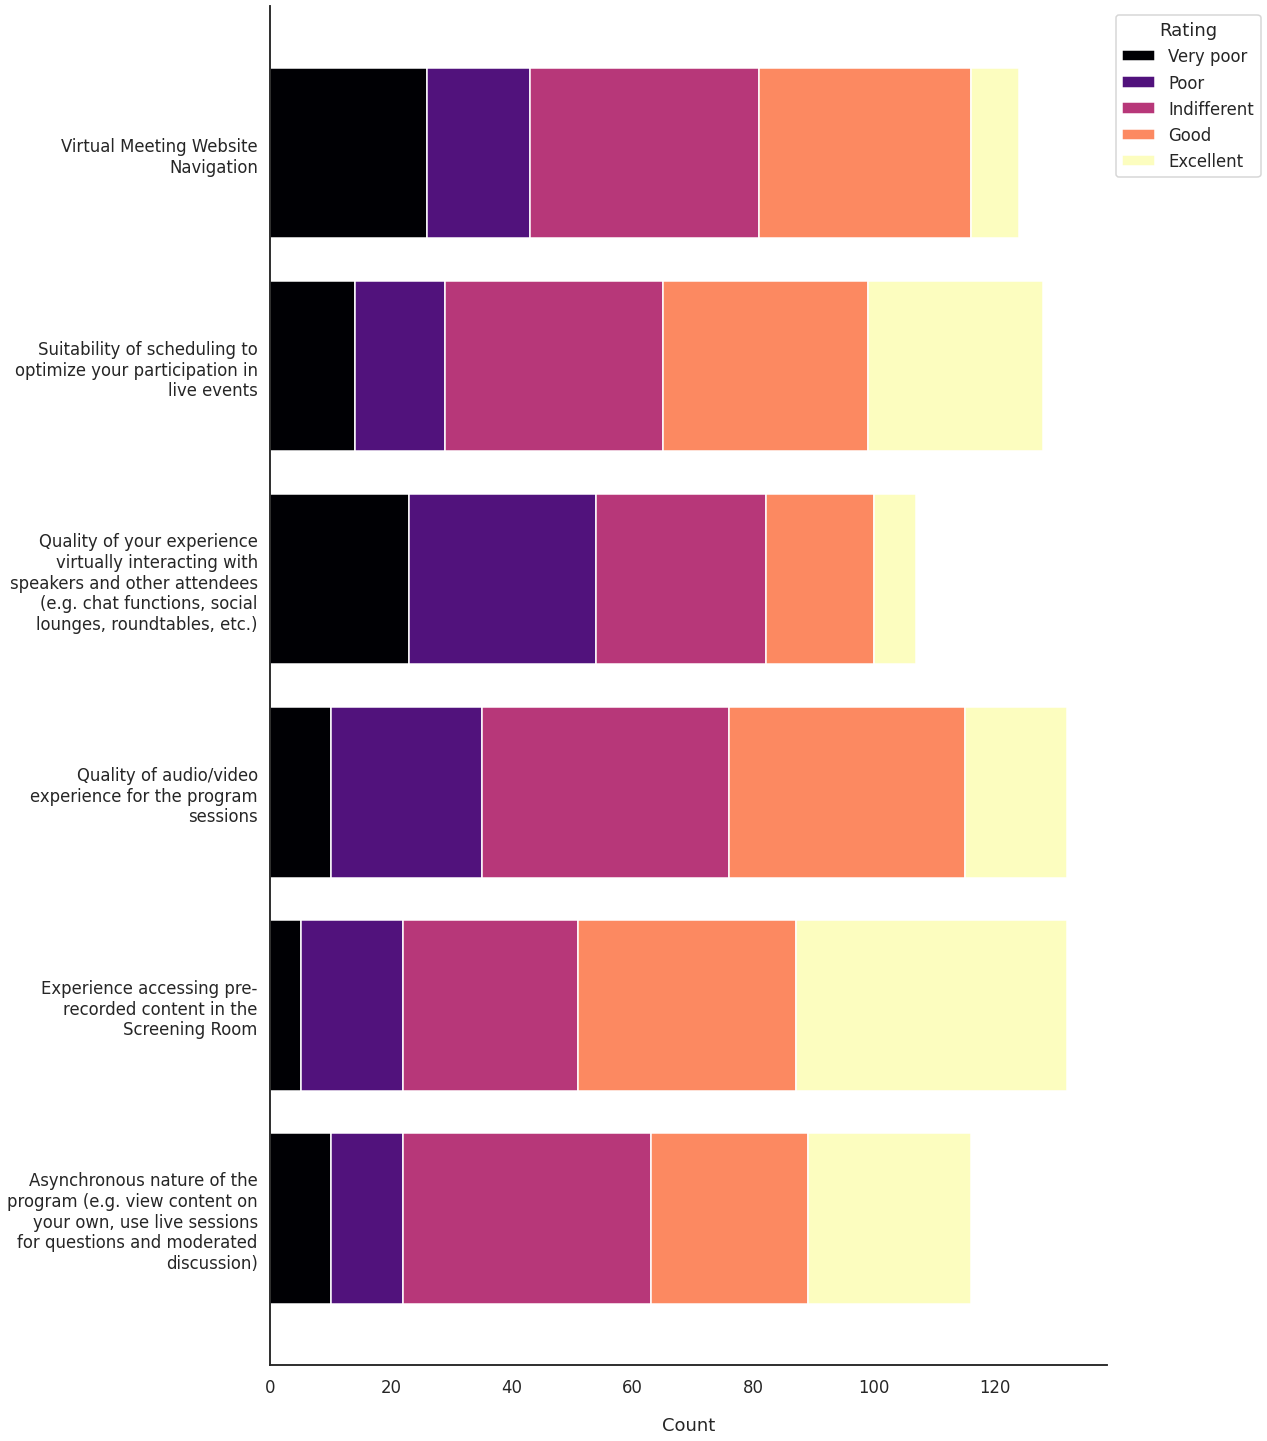
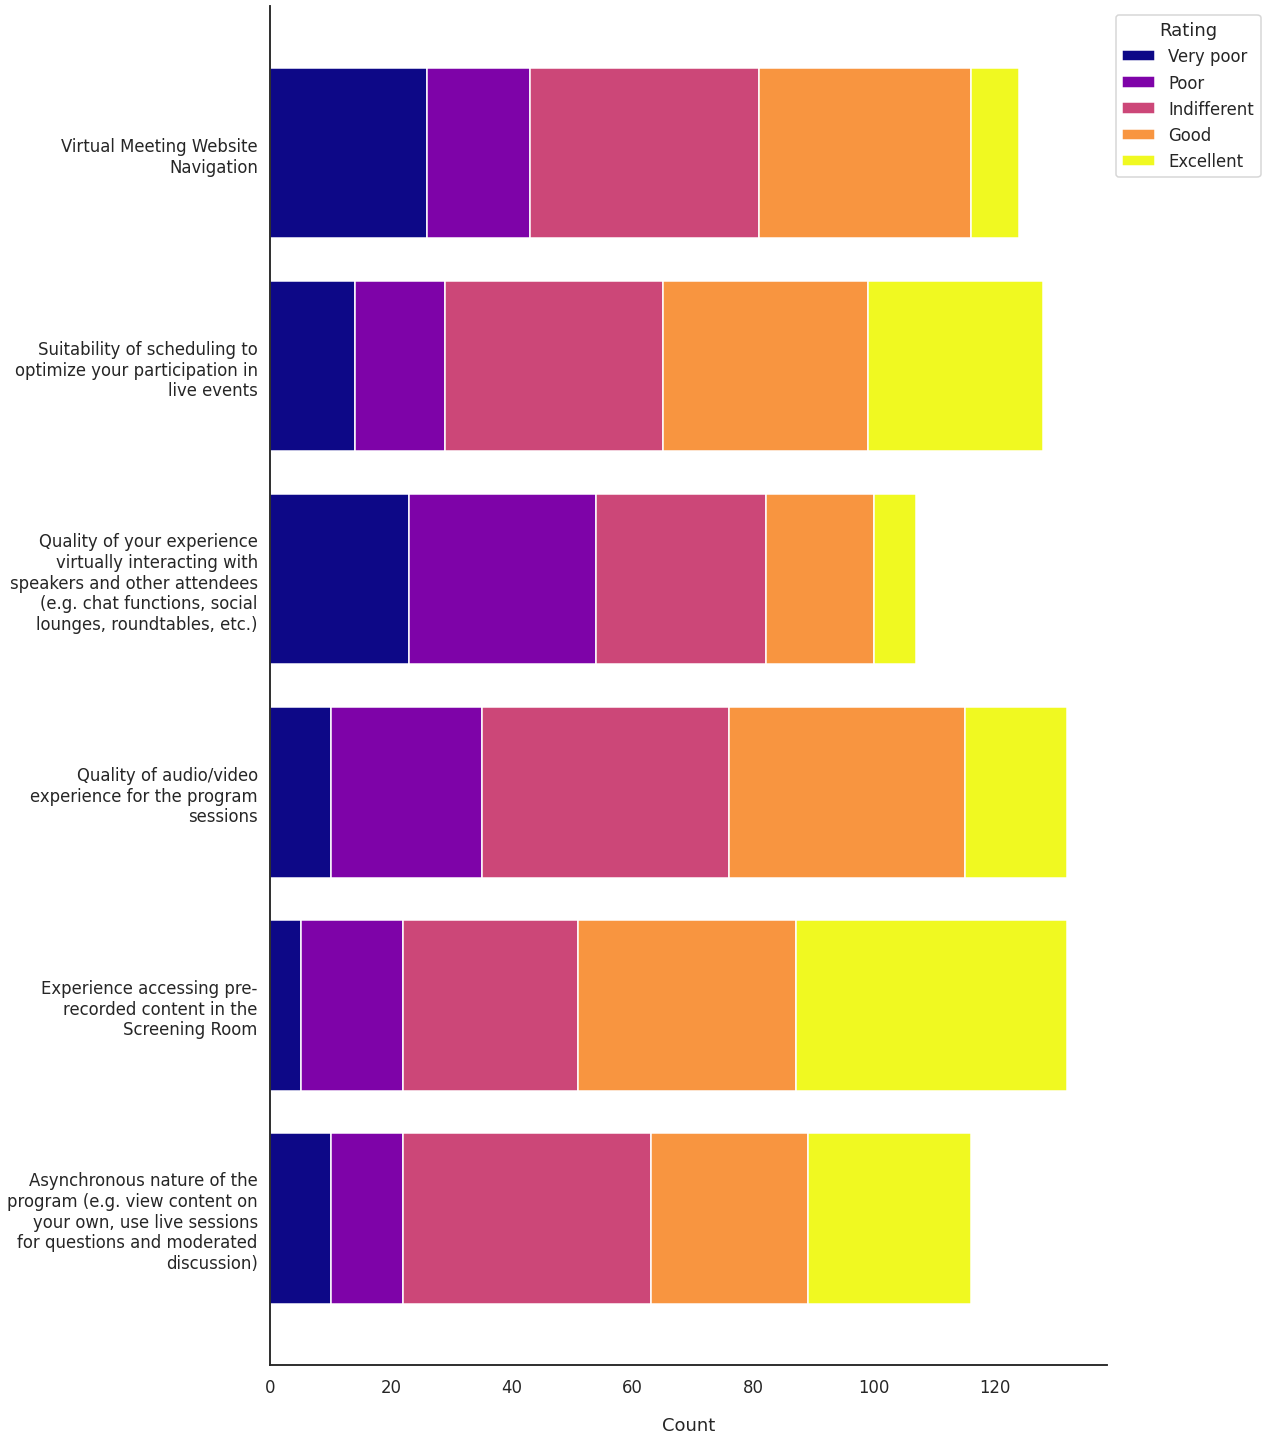
deploy: 9263d849edf75ddaaceeba9f1b504e53cb9ddbaf

diff --git a/index.html b/index.html
@@ -131,8 +131,10 @@ It is intended to accompany a recent <a class="reference external" href="https:/
 <p>All content is written in <a class="reference external" href="https://jupyterbook.org/content/myst.html">MyST</a> and rendered using <a class="reference external" href="https://jupyterbook.org/intro.html">Jupyer Book</a>.
 To ease navigation, several code cells are hidden by default.
 You can expand these code cells by clicking on the ‘Click to show’ buttons.</p>
-<p>You can also load an interactive environment to further explore these data by clicking on the Rocket icon in the upper right.:
-This will launch a new <a class="reference external" href="https://mybinder.org">MyBinder</a> session allowing you to re-analyze these data directly in the browser.</p>
+<p>You can also load an interactive environment to further explore these data by clicking on the <code class="docutils literal notranslate"><span class="pre">Binder</span></code> button:</p>
+<p><a class="reference external" href="https://mybinder.org/v2/gh/emdupre/ohbm2021-survey-feedback/HEAD?filepath=content%2Findex.md"><img alt="Binder" src="https://mybinder.org/badge_logo.svg" /></a></p>
+<p>This will launch a new <a class="reference external" href="https://mybinder.org">MyBinder</a> session.
+Right-clicking on the <code class="docutils literal notranslate"><span class="pre">index.md</span></code> file and selecting “Open in notebook editor” will allow you to re-analyze these data directly in the browser.</p>
 </div>
 <div class="cell tag_hide-cell docutils container">
 <div class="cell_input docutils container">
@@ -181,20 +183,19 @@ We can then apply this function to the loaded pandas dataframe and plot the resu
 <span class="sd">        The number of characters (including spaces) allowed</span>
 <span class="sd">        on a line before wrapping to a newline.</span>
 <span class="sd">    &quot;&quot;&quot;</span>
-    <span class="n">magma</span> <span class="o">=</span> <span class="n">cm</span><span class="o">.</span><span class="n">get_cmap</span><span class="p">(</span><span class="s1">&#39;magma&#39;</span><span class="p">,</span> <span class="mi">5</span><span class="p">)</span>
+    <span class="n">plasma</span> <span class="o">=</span> <span class="n">cm</span><span class="o">.</span><span class="n">get_cmap</span><span class="p">(</span><span class="s1">&#39;plasma&#39;</span><span class="p">,</span> <span class="mi">5</span><span class="p">)</span>
     <span class="n">reshape</span> <span class="o">=</span> <span class="n">pd</span><span class="o">.</span><span class="n">melt</span><span class="p">(</span><span class="n">df</span><span class="p">,</span> <span class="n">var_name</span><span class="o">=</span><span class="s1">&#39;option&#39;</span><span class="p">,</span> <span class="n">value_name</span><span class="o">=</span><span class="s1">&#39;rating&#39;</span><span class="p">)</span>
     <span class="n">stack</span> <span class="o">=</span> <span class="n">reshape</span><span class="o">.</span><span class="n">rename_axis</span><span class="p">(</span><span class="s1">&#39;count&#39;</span><span class="p">)</span><span class="o">.</span><span class="n">reset_index</span><span class="p">()</span><span class="o">.</span><span class="n">groupby</span><span class="p">([</span><span class="s1">&#39;option&#39;</span><span class="p">,</span> <span class="s1">&#39;rating&#39;</span><span class="p">])</span><span class="o">.</span><span class="n">count</span><span class="p">()</span><span class="o">.</span><span class="n">reset_index</span><span class="p">()</span>
 
     <span class="n">fig</span><span class="p">,</span> <span class="n">ax</span> <span class="o">=</span> <span class="n">plt</span><span class="o">.</span><span class="n">subplots</span><span class="p">(</span><span class="mi">1</span><span class="p">,</span> <span class="mi">1</span><span class="p">,</span> <span class="n">figsize</span><span class="o">=</span><span class="p">(</span><span class="mi">15</span><span class="p">,</span> <span class="n">figwidth</span><span class="p">))</span>
     <span class="n">bottom</span> <span class="o">=</span> <span class="n">np</span><span class="o">.</span><span class="n">zeros</span><span class="p">(</span><span class="nb">len</span><span class="p">(</span><span class="n">stack</span><span class="p">[</span><span class="s1">&#39;option&#39;</span><span class="p">]</span><span class="o">.</span><span class="n">unique</span><span class="p">()))</span>
-    <span class="n">clrs</span> <span class="o">=</span> <span class="n">sns</span><span class="o">.</span><span class="n">color_palette</span><span class="p">(</span><span class="s1">&#39;Set1&#39;</span><span class="p">,</span> <span class="n">n_colors</span><span class="o">=</span><span class="mi">5</span><span class="p">)</span>  <span class="c1"># to do: check colorblind friendly-ness</span>
     <span class="n">labels</span> <span class="o">=</span> <span class="p">[</span><span class="s1">&#39;Very poor&#39;</span><span class="p">,</span> <span class="s1">&#39;Poor&#39;</span><span class="p">,</span> <span class="s1">&#39;Indifferent&#39;</span><span class="p">,</span> <span class="s1">&#39;Good&#39;</span><span class="p">,</span> <span class="s1">&#39;Excellent&#39;</span><span class="p">]</span>
 
     <span class="k">for</span> <span class="n">rating</span> <span class="ow">in</span> <span class="nb">range</span><span class="p">(</span><span class="mi">1</span><span class="p">,</span> <span class="mi">6</span><span class="p">):</span>
         <span class="n">stackd</span> <span class="o">=</span> <span class="n">stack</span><span class="o">.</span><span class="n">query</span><span class="p">(</span><span class="sa">f</span><span class="s1">&#39;rating == </span><span class="si">{</span><span class="n">rating</span><span class="si">}</span><span class="s1">&#39;</span><span class="p">)</span>
         <span class="n">ax</span><span class="o">.</span><span class="n">barh</span><span class="p">(</span><span class="n">y</span><span class="o">=</span><span class="n">stackd</span><span class="p">[</span><span class="s1">&#39;option&#39;</span><span class="p">],</span> <span class="n">width</span><span class="o">=</span><span class="n">stackd</span><span class="p">[</span><span class="s1">&#39;count&#39;</span><span class="p">],</span> <span class="n">left</span><span class="o">=</span><span class="n">bottom</span><span class="p">,</span>
                 <span class="n">tick_label</span><span class="o">=</span><span class="p">[</span><span class="s1">&#39;</span><span class="se">\n</span><span class="s1">&#39;</span><span class="o">.</span><span class="n">join</span><span class="p">(</span><span class="n">wrap</span><span class="p">(</span><span class="n">s</span><span class="p">,</span> <span class="n">textwrap</span><span class="p">))</span> <span class="k">for</span> <span class="n">s</span> <span class="ow">in</span> <span class="n">stackd</span><span class="p">[</span><span class="s1">&#39;option&#39;</span><span class="p">]],</span>
-                <span class="n">color</span><span class="o">=</span><span class="n">magma</span><span class="o">.</span><span class="n">colors</span><span class="p">[</span><span class="n">rating</span> <span class="o">-</span> <span class="mi">1</span><span class="p">],</span> <span class="n">label</span><span class="o">=</span><span class="n">labels</span><span class="p">[</span><span class="n">rating</span> <span class="o">-</span> <span class="mi">1</span><span class="p">])</span>
+                <span class="n">color</span><span class="o">=</span><span class="n">plasma</span><span class="o">.</span><span class="n">colors</span><span class="p">[</span><span class="n">rating</span> <span class="o">-</span> <span class="mi">1</span><span class="p">],</span> <span class="n">label</span><span class="o">=</span><span class="n">labels</span><span class="p">[</span><span class="n">rating</span> <span class="o">-</span> <span class="mi">1</span><span class="p">])</span>
         <span class="n">bottom</span> <span class="o">+=</span> <span class="n">np</span><span class="o">.</span><span class="n">asarray</span><span class="p">(</span><span class="n">stackd</span><span class="p">[</span><span class="s1">&#39;count&#39;</span><span class="p">])</span>
 
     <span class="n">sns</span><span class="o">.</span><span class="n">despine</span><span class="p">()</span>
